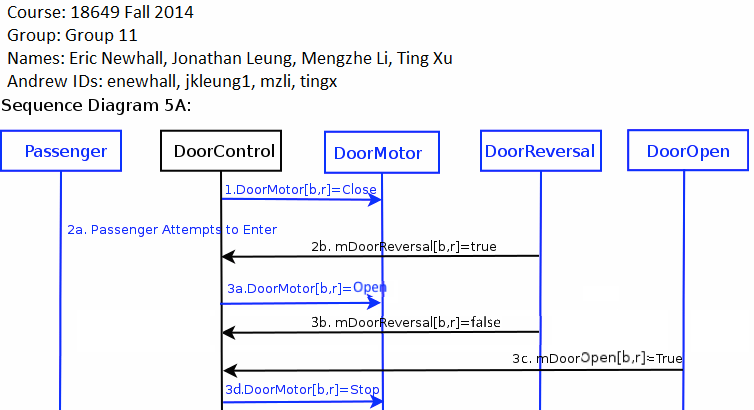
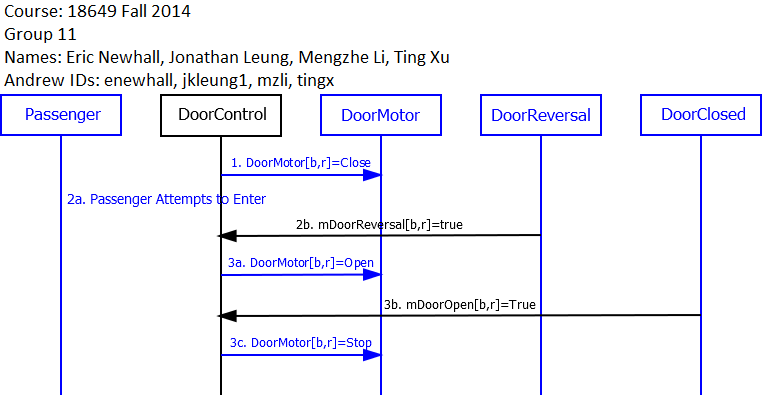
Updated 5a 5b sd

Changed region(s): [[0.0, 0.0, 1.0, 1.0], [0.061, 0.8788, 0.0915, 1.0]]

diff --git a/portfolio/scen_sd/scen_sd.html b/portfolio/scen_sd/scen_sd.html
@@ -389,7 +389,7 @@ attempts to enter the car as the doors begin to close. </h3>
 
 <h3> Sequence Diagram: </h3>
 <p> <a href="sd5a.png"><img src="sd5a.png" alt="5A"
- style="border: 0px solid ; width: 749px; height: 383px;"></a> </p>
+ style="border: 0px solid ; width: 762px; height: 393px;"></a> </p>
 <div align="center">
 <hr size="2" width="100%" align="center"> </div>
 
@@ -418,7 +418,7 @@ attempts to exit the car as the doors begin to close. </h3>
 
 <h3> Sequence Diagram: </h3>
 <p> <a href="sd5b.png"><img src="sd5b.png" alt="5B"
- style="border: 0px solid ; width: 749px; height: 398px;"></a> </p>
+ style="border: 0px solid ; width: 762px; height: 395px;"></a> </p>
 <div align="center">
 <hr size="2" width="100%" align="center"> </div>
 <p> &nbsp; </p>
